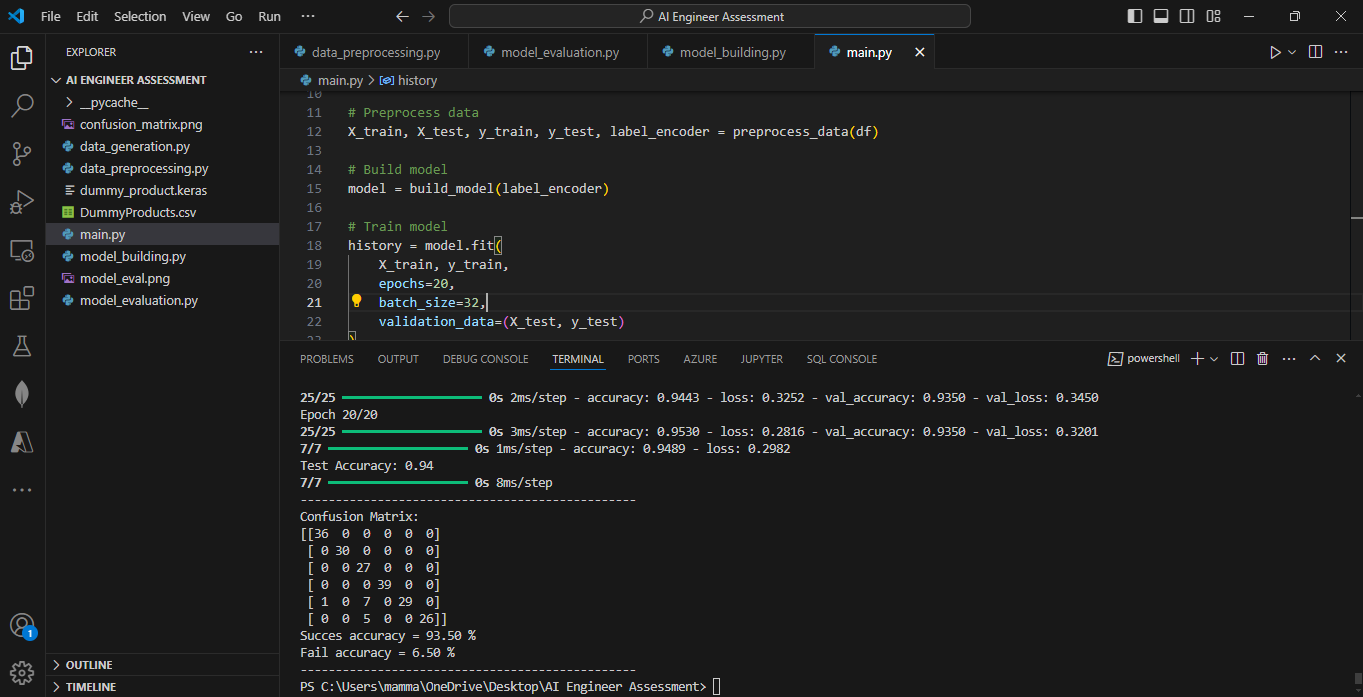
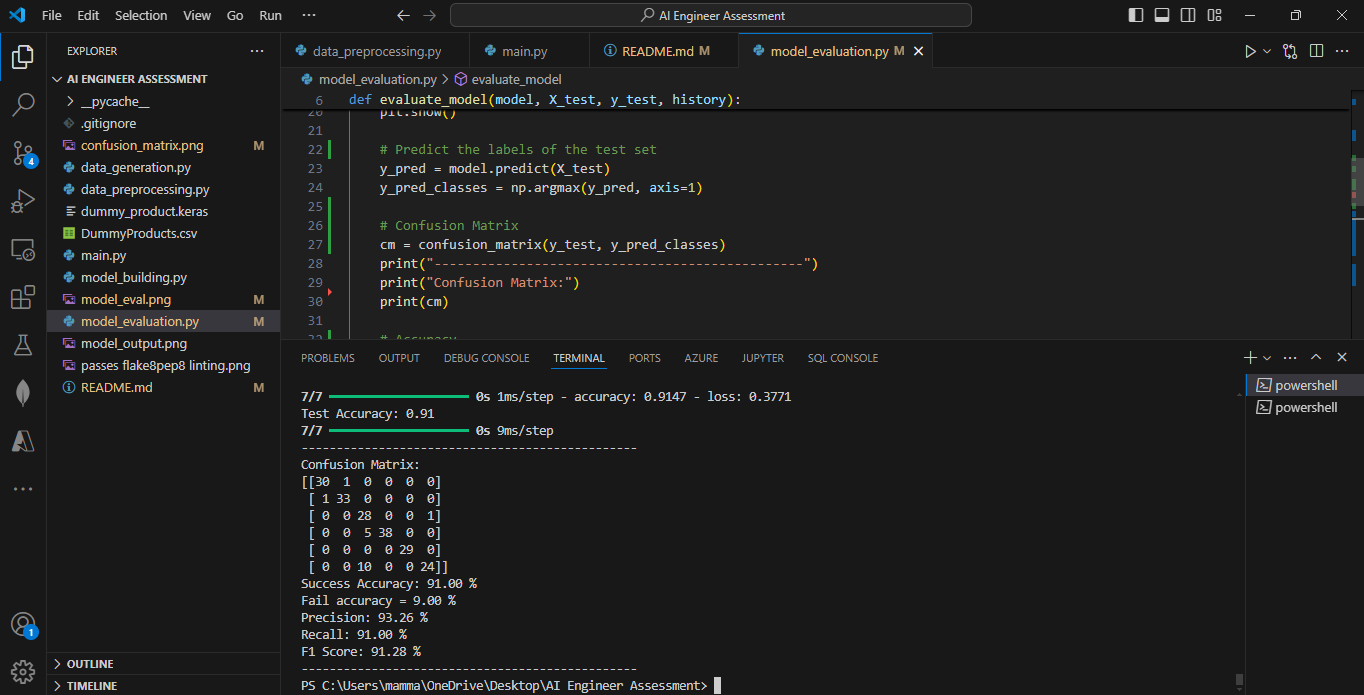
Made Changes in  model_evaluation.py and README.md

diff --git a/model_evaluation.py b/model_evaluation.py
@@ -1,8 +1,7 @@
 import matplotlib.pyplot as plt
 import seaborn as sns
 import numpy as np
-from sklearn.metrics import confusion_matrix, accuracy_score
-
+from sklearn.metrics import confusion_matrix, accuracy_score, precision_score, recall_score, f1_score
 
 def evaluate_model(model, X_test, y_test, history):
     # Evaluate the model
@@ -10,26 +9,46 @@ def evaluate_model(model, X_test, y_test, history):
     print(f"Test Accuracy: {accuracy:.2f}")
 
     # Plot the training history
-    plt.plot(history.history['accuracy'], label='accuracy')
-    plt.plot(history.history['val_accuracy'], label='val_accuracy')
+    plt.figure(figsize=(12, 6))
+    plt.plot(history.history['accuracy'], label='Train Accuracy')
+    plt.plot(history.history['val_accuracy'], label='Validation Accuracy')
     plt.xlabel('Epoch')
     plt.ylabel('Accuracy')
     plt.ylim([0, 1])
     plt.legend(loc='lower right')
+    plt.title('Training and Validation Accuracy')
     plt.show()
 
+    # Predict the labels of the test set
     y_pred = model.predict(X_test)
     y_pred_classes = np.argmax(y_pred, axis=1)
+
+    # Confusion Matrix
+    cm = confusion_matrix(y_test, y_pred_classes)
     print("------------------------------------------------")
     print("Confusion Matrix:")
-    cm = confusion_matrix(y_test, y_pred_classes)
     print(cm)
 
+    # Accuracy
     acc = accuracy_score(y_test, y_pred_classes)
-    print("Succes accuracy = {0:.2f} %".format(acc * 100))
+    print("Success Accuracy: {:.2f} %".format(acc * 100))
     fail = 1.0 - acc
-    print("Fail accuracy = {0:.2f} %".format(fail * 100))
+    print("Fail accuracy = {:.2f} %".format(fail * 100))
+
+    # Precision, Recall, and F1 Score
+    precision = precision_score(y_test, y_pred_classes, average='weighted')
+    recall = recall_score(y_test, y_pred_classes, average='weighted')
+    f1 = f1_score(y_test, y_pred_classes, average='weighted')
+
+    print("Precision: {:.2f} %".format(precision * 100))
+    print("Recall: {:.2f} %".format(recall * 100))
+    print("F1 Score: {:.2f} %".format(f1 * 100))
     print("------------------------------------------------")
 
-    sns.heatmap(cm, annot=True, fmt='d', cmap='Blues')
+    # Plot the confusion matrix
+    plt.figure(figsize=(10, 8))
+    sns.heatmap(cm, annot=True, fmt='d', cmap='Blues', cbar=False)
+    plt.xlabel('Predicted')
+    plt.ylabel('True')
+    plt.title('Confusion Matrix')
     plt.show()
